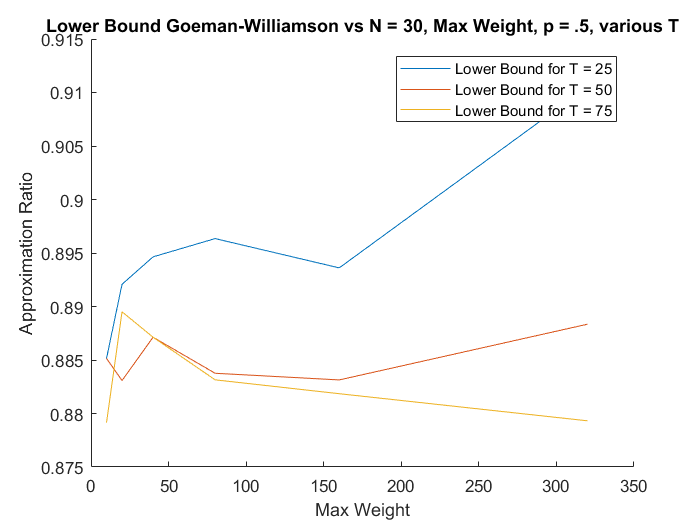
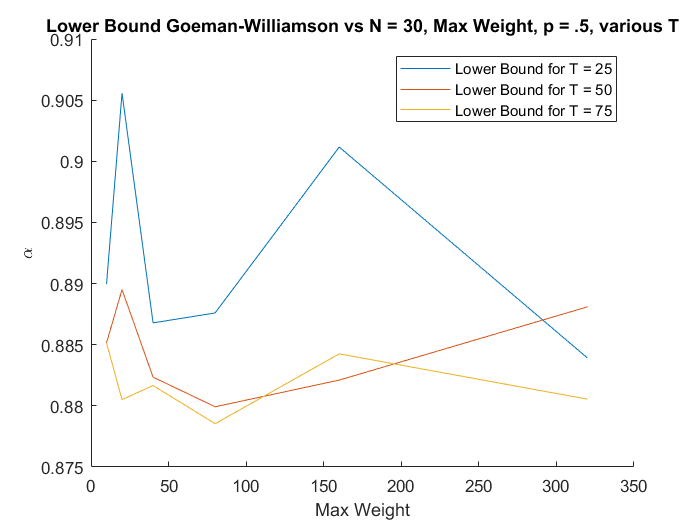
Use manual decomposition

diff --git a/Part1.m b/Part1.m
@@ -80,7 +80,7 @@ end
 title("Lower Bound Goeman-Williamson vs N = 30, Max Weight, p = .5, various T")
 legend("Lower Bound for T = " + Iter)
 xlabel("Max Weight")
-ylabel("Approximation Ratio")
+ylabel("\alpha")
 
 figure(2)
 for i = 1:length(Iter)
@@ -91,7 +91,11 @@ end
 title("Lower Bound Goeman-Williamson vs N = 30, Max Weight, p = 1, various T")
 legend("Lower Bound for T = " + Iter)
 xlabel("Max Weight")
-ylabel("Approximation Ratio")
+ylabel("\alpha")
+
+
+
+
 
 
 
